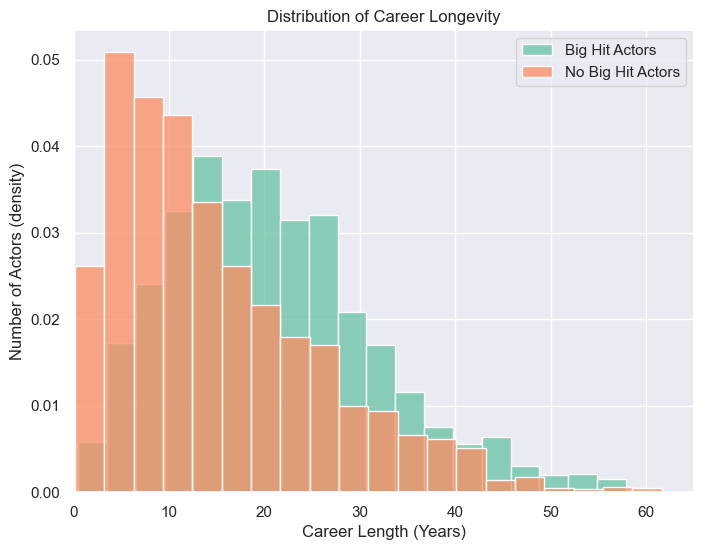
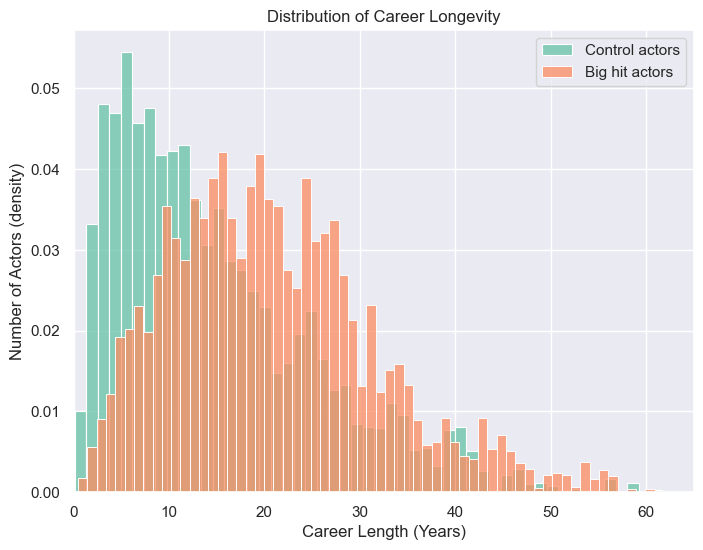
update lanyon

diff --git a/_posts/2020-04-03-introducing-lanyon.md b/_posts/2020-04-03-introducing-lanyon.md
@@ -71,7 +71,7 @@ Now that we defined what makes a movie a big hit, let’s check there distributi
 
 Exactly as expected, isn't it? Blockbuster movies are clearly more successful than the other average movies.
 
-## Blockbuster actors: famous or low-key ?
+## Characteristics of blockbuster actors
 Let’s look at the major differences between blockbuster actors and moderate actors and see if we can uncover some secrets
 
 <p><img src="imgs/gender.png" style="width: 80%; margin: 0 auto;" /></p>
@@ -88,7 +88,7 @@ Let’s look if there’s a difference between the age of the career peak betwee
 
 Looks like actors in big hits usually hit their peak at an older age than those who don't star in big hits. 
 
-<p><img src="imgs/peak_age.png" style="width: 80%; margin: 0 auto;" /></p>
+<p><img src="imgs/career_longevity2.png" style="width: 80%; margin: 0 auto;" /></p>
 
 ### It's a match !
 
@@ -97,8 +97,8 @@ Let’s compare the characteristics of blockbuster actors to those of less-well 
 <p><img src="imgs/matching.jpeg" style="width: 60%; margin: 0 auto;" /></p>
 
 
-### Career longevity
-How about the career longevity of an actor ? Do you have more chances to have a long career if you’ve played in a big hit movie ?Let’s look at the career lifespans of actors that played in blockbusters versus the others. 
+#### How long does an actor last ?
+Do you have more chances to have a long career if you’ve played in a big hit movie ? Let’s look at the career lifespans of actors that played in blockbusters versus the others. 
 
 <p><img src="imgs/longevity_distribution.png" style="width: 80%; margin: 0 auto;" /></p>
 
@@ -106,15 +106,16 @@ Charting the journey of actors from their screen debut to their latest act, a st
 
 <img src="imgs/sean_connery.jpeg" style="width: 30%; margin: 0 auto;" />
 
-### Movie counts
-In the next exciting chapter of our data-driven story, we shifted the focus to the number of movies each actor has starred in. Our investigation uncovered a notable distinction: actors in big hits (the Treatment Group) tend to have a higher average number of movie appearances (16 on average) compared to actors who haven't starred in big hits (7 on average). The results of Welch's t-test, yielding a p-value of 0.0, emphasize a significant difference in movie counts between the two actor groups. This reinforces our earlier findings: actors in big hits not only experience a momentary surge in fame but are likely to have more extensive filmographies compared to their colleagues without big-hit experiences.
+#### Do blockbuster actors play in a lot of movies?
+
+In the next chapter of our data-driven story, we shift the focus to the number of movies each actor has starred in. Our investigation uncovers a notable distinction: actors in big hits (the Treatment Group) tend to have a higher average number of movie appearances (16 on average) compared to actors who haven't starred in big hits (7 on average). The results of Welch's t-test, yielding a p-value of 0.0, emphasize a significant difference in movie counts between the two actor groups. This reinforces our earlier findings: actors in big hits not only experience a momentary surge in fame but are likely to have more extensive filmographies compared to their colleagues without big-hit experiences.
 
 <p><img src="imgs/movie_counts.png" style="width: 80%; margin: 0 auto;" /></p>
 
 The median line in the blue box, which represents our Treatment Group (actors in big hits), is noticeably higher than its counterpart. The range of movie counts, especially on the higher side, is broader in the Treatment Group, indicating a more varied and often prolific career span among these actors. Another interesting point is the group's outliers—actors with exceptionally high movie counts—reinforcing the idea that a role in a big hit can lead to a more diverse and prolific acting career.
 
 ## Career analysis
-
+### Success
 Let's examine the average success for movies arranged chronologically.
 
 <p><img src="imgs/movie_counts.png" style="width: 80%; margin: 0 auto;" /></p>
@@ -124,6 +125,8 @@ The median success values follow a similar pattern before the big hit, but here'
 P-values for Wilcoxon tests also confirm that the movie success value of actors after they played in their first big hit is higher than the rest of the actors.
 
 Finally, let's look at the character role evolution in our actors careers
+
+### Does a big hit influence an actor's roles over their career ?
 
 <p><img src="imgs/movie_counts.png" style="width: 80%; margin: 0 auto;" /></p>
 
